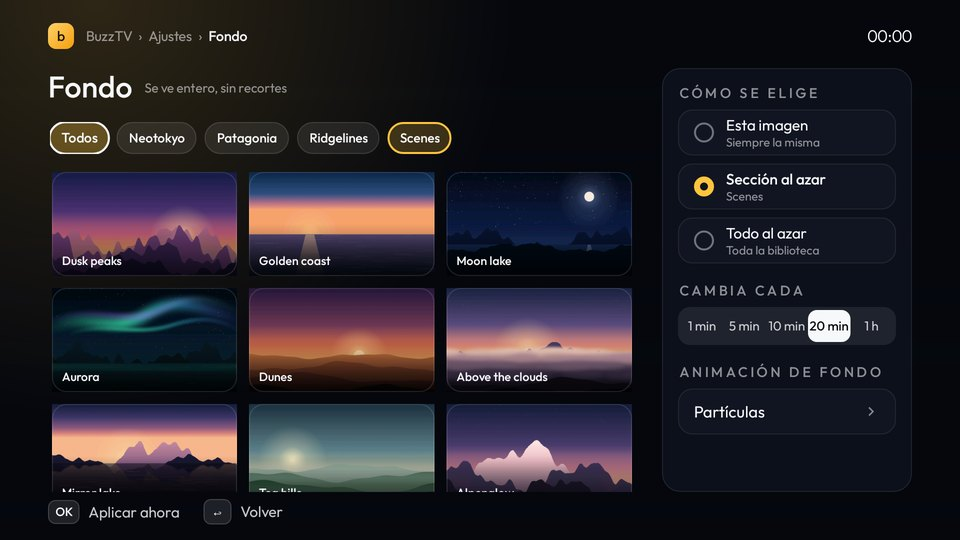
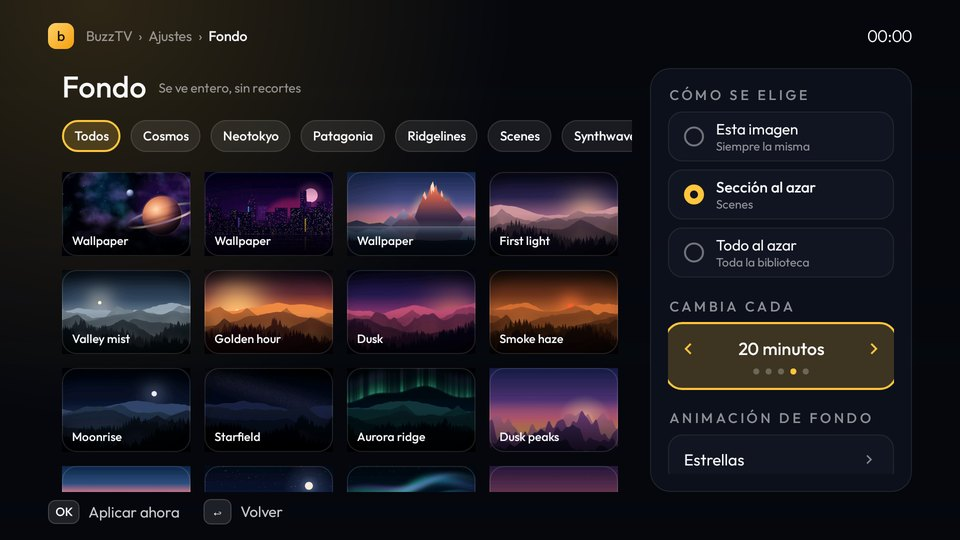
Launcher: focus rings never cut, a Background gallery that shows everything
A view that grows on focus now unclips its containers up to the nearest scrolling one, which keeps its own
content inside its bounds: no cut ring on buttons, cards or pictures, and the section chips no longer paint over
the side panel. In Background, All shows every picture of the library as a four-column mosaic (it used to fall
back to the saved section), a section's single wallpaper is named after the section, and "Changes every" is a
Left/Right stepper shown only when the background rotates.

Claude-Session: https://claude.ai/code/session_01PXT7BGs47fZPraac96cjBc

diff --git a/launcher/app/src/main/java/com/gathin/tvhome/LauncherSettingsActivity.java b/launcher/app/src/main/java/com/gathin/tvhome/LauncherSettingsActivity.java
@@ -263,7 +263,7 @@ public final class LauncherSettingsActivity extends Activity {
         View design = bigCard(R.drawable.ic_layout, 0xFFFFD36B, 0xFFF59E0B, R.string.settings_design,
                 getString(HomeTheme.labelRes(theme)), getString(R.string.settings_design_hint, HomeTheme.ALL.length), this::showDesign);
         View background = bigCard(R.drawable.ic_image, 0xFF34D3C2, 0xFF0E8F86, R.string.settings_background,
-                BackgroundPicker.state(this, choices), null, this::showBackground);
+                BackgroundPicker.state(this, choices), null, this::openBackground);
         View animation = bigCard(R.drawable.ic_sparkle, 0xFFA78BFA, 0xFF6D28D9, R.string.wallpaper_animation_label,
                 animationLabel(config.wallpaperAnimation), null, this::showAnimation);
         View weatherCard = bigCard(R.drawable.ic_cloud, 0xFF7CC4FF, 0xFF2563EB, R.string.settings_weather,
@@ -657,31 +657,43 @@ public final class LauncherSettingsActivity extends Activity {
     // ---- background -----------------------------------------------------------------------------------
 
     private String gallerySection;   // null = every section
+    private static final int GALLERY_COLUMNS = 4;
+    private static final int GALLERY_MAX = 120;
+
+    /** From the hub: open on the section in use (or every picture when everything rotates). */
+    private void openBackground() {
+        String mode = choices.getString(BackgroundLibrary.MODE_KEY, null);
+        gallerySection = BackgroundLibrary.MODE_ALL.equals(mode) ? null : choices.getString(BackgroundLibrary.SECTION_KEY, null);
+        showBackground(-1);
+    }
 
     private void showBackground() {
+        showBackground(-1);
+    }
+
+    /** @param focusChip the section chip to keep the focus on after a redraw, or -1 for the chosen picture */
+    private void showBackground(int focusChip) {
         back = this::showHub;
         setCrumbs(R.string.settings_title, R.string.settings_background);
-        setKeys(new String[]{"OK", "↩"}, new int[]{R.string.key_apply, R.string.key_back});
+        setKeys(new String[]{"OK", "\u21A9"}, new int[]{R.string.key_apply, R.string.key_back});
         content.removeAllViews();
         File root = Config.dir(this);
         List<String> sections = BackgroundLibrary.sections(root);
         String mode = choices.getString(BackgroundLibrary.MODE_KEY, null);
-        if (gallerySection == null && !BackgroundLibrary.MODE_ALL.equals(mode)) {
-            gallerySection = choices.getString(BackgroundLibrary.SECTION_KEY, null);
-        }
 
         LinearLayout across = new LinearLayout(this);
         across.setOrientation(LinearLayout.HORIZONTAL);
-        across.setClipChildren(false);
         content.addView(across, match());
 
+        // The left column clips: the chip row and the gallery scroll inside it and never paint over the panel.
         LinearLayout left = new LinearLayout(this);
         left.setOrientation(LinearLayout.VERTICAL);
-        left.setClipChildren(false);
+        left.setClipChildren(true);
         across.addView(left, new LinearLayout.LayoutParams(0, ViewGroup.LayoutParams.MATCH_PARENT, 1f));
         LinearLayout head = new LinearLayout(this);
         head.setOrientation(LinearLayout.HORIZONTAL);
         head.setGravity(Gravity.BOTTOM);
+        head.setPadding(dp(14), 0, dp(14), 0);
         left.addView(head);
         TextView title = Buzz.text(this, 30, Buzz.TEXT, R.string.font_medium);
         title.setText(R.string.settings_background);
@@ -697,61 +709,66 @@ public final class LauncherSettingsActivity extends Activity {
             TextView empty = Buzz.text(this, 15, Buzz.TEXT_2, R.string.font_regular);
             empty.setSingleLine(false);
             empty.setText(R.string.background_empty);
+            empty.setPadding(dp(14), 0, dp(14), 0);
             LinearLayout.LayoutParams el = wrap();
             el.topMargin = dp(24);
             left.addView(empty, el);
         } else {
             HorizontalScrollView chipScroll = new HorizontalScrollView(this);
             chipScroll.setHorizontalScrollBarEnabled(false);
-            chipScroll.setClipToPadding(false);
+            chipScroll.setOverScrollMode(View.OVER_SCROLL_NEVER);
             LinearLayout chips = new LinearLayout(this);
             chips.setOrientation(LinearLayout.HORIZONTAL);
-            chips.setPadding(dp(2), dp(4), dp(2), dp(4));
+            chips.setClipChildren(false);
+            // Room on every side for a chip that grows on focus.
+            chips.setPadding(dp(14), dp(10), dp(14), dp(10));
             chipScroll.addView(chips);
             LinearLayout.LayoutParams csl = new LinearLayout.LayoutParams(ViewGroup.LayoutParams.MATCH_PARENT, ViewGroup.LayoutParams.WRAP_CONTENT);
-            csl.topMargin = dp(12);
+            csl.topMargin = dp(4);
             left.addView(chipScroll, csl);
             List<String> chipIds = new ArrayList<>();
             chipIds.add(null);
             chipIds.addAll(sections);
-            for (String s : chipIds) {
-                TextView c = textChoice(s == null ? getString(R.string.background_all) : ThemeLibrary.label(s));
-                ((LinearLayout.LayoutParams) c.getLayoutParams()).setMarginEnd(dp(8));
-                c.setSelected(s == null ? gallerySection == null : s.equals(gallerySection));
+            View keep = null;
+            for (int i = 0; i < chipIds.size(); i++) {
+                String sec = chipIds.get(i);
+                final int index = i;
+                TextView c = textChoice(sec == null ? getString(R.string.background_all) : ThemeLibrary.label(sec));
+                ((LinearLayout.LayoutParams) c.getLayoutParams()).setMarginEnd(dp(10));
+                c.setSelected(sec == null ? gallerySection == null : sec.equals(gallerySection));
                 c.setOnClickListener(v -> {
-                    gallerySection = s;
-                    showBackground();
+                    gallerySection = sec;
+                    showBackground(index);
                 });
                 chips.addView(c);
+                if (i == focusChip) keep = c;
             }
 
             ScrollView scroll = new ScrollView(this);
             scroll.setVerticalScrollBarEnabled(false);
-            scroll.setClipToPadding(false);
+            scroll.setOverScrollMode(View.OVER_SCROLL_NEVER);
             LinearLayout rows = new LinearLayout(this);
             rows.setOrientation(LinearLayout.VERTICAL);
             rows.setClipChildren(false);
-            rows.setPadding(dp(4), dp(8), dp(4), dp(8));
+            rows.setPadding(dp(14), dp(10), dp(14), dp(14));
             scroll.addView(rows);
-            LinearLayout.LayoutParams sl = new LinearLayout.LayoutParams(ViewGroup.LayoutParams.MATCH_PARENT, 0, 1f);
-            sl.topMargin = dp(6);
-            left.addView(scroll, sl);
+            left.addView(scroll, new LinearLayout.LayoutParams(ViewGroup.LayoutParams.MATCH_PARENT, 0, 1f));
             List<File> pics = new ArrayList<>();
-            if (gallerySection == null) for (String s : sections) pics.addAll(BackgroundLibrary.images(root, s));
+            if (gallerySection == null) for (String sec : sections) pics.addAll(BackgroundLibrary.images(root, sec));
             else pics.addAll(BackgroundLibrary.images(root, gallerySection));
-            if (pics.size() > 60) pics = pics.subList(0, 60);
+            if (pics.size() > GALLERY_MAX) pics = pics.subList(0, GALLERY_MAX);
             String picked = BackgroundLibrary.MODE_IMAGE.equals(mode) ? choices.getString(BackgroundLibrary.IMAGE_KEY, null) : null;
             String pickedSection = choices.getString(BackgroundLibrary.SECTION_KEY, null);
             LinearLayout line = null;
             List<View> cells = new ArrayList<>();
             View first = null;
             for (int i = 0; i < pics.size(); i++) {
-                if (i % 3 == 0) {
+                if (i % GALLERY_COLUMNS == 0) {
                     line = new LinearLayout(this);
                     line.setOrientation(LinearLayout.HORIZONTAL);
                     line.setClipChildren(false);
-                    LinearLayout.LayoutParams ll = new LinearLayout.LayoutParams(ViewGroup.LayoutParams.MATCH_PARENT, dp(104));
-                    ll.bottomMargin = dp(12);
+                    LinearLayout.LayoutParams ll = new LinearLayout.LayoutParams(ViewGroup.LayoutParams.MATCH_PARENT, dp(84));
+                    ll.bottomMargin = dp(14);
                     rows.addView(line, ll);
                 }
                 File f = pics.get(i);
@@ -760,27 +777,28 @@ public final class LauncherSettingsActivity extends Activity {
                 View cell = picture(f, section, selected, cells);
                 cells.add(cell);
                 LinearLayout.LayoutParams cl = new LinearLayout.LayoutParams(0, ViewGroup.LayoutParams.MATCH_PARENT, 1f);
-                cl.setMarginEnd(i % 3 == 2 ? 0 : dp(12));
+                cl.setMarginEnd(i % GALLERY_COLUMNS == GALLERY_COLUMNS - 1 ? 0 : dp(14));
                 line.addView(cell, cl);
                 if (first == null || selected) first = cell;
             }
             if (line != null) {
-                for (int i = pics.size(); i % 3 != 0; i++) {
+                for (int i = pics.size(); i % GALLERY_COLUMNS != 0; i++) {
                     LinearLayout.LayoutParams cl = new LinearLayout.LayoutParams(0, ViewGroup.LayoutParams.MATCH_PARENT, 1f);
-                    cl.setMarginEnd(i % 3 == 2 ? 0 : dp(12));
+                    cl.setMarginEnd(i % GALLERY_COLUMNS == GALLERY_COLUMNS - 1 ? 0 : dp(14));
                     line.addView(Buzz.spacer(this), cl);
                 }
             }
-            if (first != null) first.requestFocus();
+            View target = keep != null ? keep : first;
+            if (target != null) target.requestFocus();
         }
 
-        // Right: how the picture is chosen, how often it changes, the animation.
+        // Right: how the picture is chosen, how often it changes (only when it does), the animation.
         LinearLayout aside = new LinearLayout(this);
         aside.setOrientation(LinearLayout.VERTICAL);
-        aside.setPadding(dp(16), dp(16), dp(16), dp(16));
-        aside.setBackground(Buzz.round(0xB8101420, dp(18), Math.max(1, dp(1)), 0x1AFFFFFF));
-        LinearLayout.LayoutParams asl = new LinearLayout.LayoutParams(dp(250), ViewGroup.LayoutParams.MATCH_PARENT);
-        asl.setMarginStart(dp(26));
+        aside.setPadding(dp(18), dp(18), dp(18), dp(18));
+        aside.setBackground(Buzz.round(0xB8101420, dp(20), Math.max(1, dp(1)), 0x1AFFFFFF));
+        LinearLayout.LayoutParams asl = new LinearLayout.LayoutParams(dp(262), ViewGroup.LayoutParams.MATCH_PARENT);
+        asl.setMarginStart(dp(18));
         across.addView(aside, asl);
         aside.addView(Buzz.kicker(this, R.string.background_how, Buzz.TEXT_3));
         String current = gallerySection != null ? gallerySection : choices.getString(BackgroundLibrary.SECTION_KEY, null);
@@ -789,6 +807,7 @@ public final class LauncherSettingsActivity extends Activity {
                 {BackgroundLibrary.MODE_SECTION, getString(R.string.background_mode_section),
                         current == null ? getString(R.string.background_mode_section_sub) : ThemeLibrary.label(current)},
                 {BackgroundLibrary.MODE_ALL, getString(R.string.background_mode_all), getString(R.string.background_mode_all_sub)}};
+        View firstMode = null;
         for (String[] m : modes) {
             View r = radio(m[1], m[2], m[0].equals(mode), () -> {
                 if (BackgroundLibrary.MODE_ALL.equals(m[0])) saveBackground(BackgroundLibrary.MODE_ALL, null, null);
@@ -799,32 +818,116 @@ public final class LauncherSettingsActivity extends Activity {
                 } else return;
                 showBackground();
             });
-            LinearLayout.LayoutParams rl = new LinearLayout.LayoutParams(ViewGroup.LayoutParams.MATCH_PARENT, dp(46));
+            LinearLayout.LayoutParams rl = new LinearLayout.LayoutParams(ViewGroup.LayoutParams.MATCH_PARENT, dp(48));
             rl.topMargin = dp(8);
             aside.addView(r, rl);
+            if (firstMode == null) firstMode = r;
         }
-        LinearLayout.LayoutParams k2 = wrap();
-        k2.topMargin = dp(18);
-        aside.addView(Buzz.kicker(this, R.string.background_every, Buzz.TEXT_3), k2);
-        int rot = choices.getInt(Config.WALLPAPER_ROTATION_KEY, BackgroundLibrary.DEFAULT_ROTATION_MINUTES);
-        String[] rotLabels = {getString(R.string.rotation_1m), getString(R.string.rotation_5m), getString(R.string.rotation_10m),
-                getString(R.string.rotation_20m), getString(R.string.rotation_60m)};
-        int rotIdx = 3;
-        for (int i = 0; i < Config.WALLPAPER_ROTATION_CHOICES.length; i++) if (Config.WALLPAPER_ROTATION_CHOICES[i] == rot) rotIdx = i;
-        View seg = segmented(rotLabels, rotIdx, i -> {
-            choices.edit().putInt(Config.WALLPAPER_ROTATION_KEY, Config.WALLPAPER_ROTATION_CHOICES[i]).apply();
-            changed();
-        });
-        ((LinearLayout.LayoutParams) seg.getLayoutParams()).topMargin = dp(8);
-        aside.addView(seg);
+        // A fixed picture never changes: no interval to choose.
+        boolean rotates = BackgroundLibrary.MODE_SECTION.equals(mode) || BackgroundLibrary.MODE_ALL.equals(mode);
+        if (rotates) {
+            LinearLayout.LayoutParams k2 = wrap();
+            k2.topMargin = dp(16);
+            aside.addView(Buzz.kicker(this, R.string.background_every, Buzz.TEXT_3), k2);
+            int rot = choices.getInt(Config.WALLPAPER_ROTATION_KEY, BackgroundLibrary.DEFAULT_ROTATION_MINUTES);
+            int rotIdx = 3;
+            for (int i = 0; i < Config.WALLPAPER_ROTATION_CHOICES.length; i++) if (Config.WALLPAPER_ROTATION_CHOICES[i] == rot) rotIdx = i;
+            String[] rotLabels = {getString(R.string.every_1m), getString(R.string.every_5m), getString(R.string.every_10m),
+                    getString(R.string.every_20m), getString(R.string.every_60m)};
+            View stepper = stepper(rotLabels, rotIdx, i -> {
+                choices.edit().putInt(Config.WALLPAPER_ROTATION_KEY, Config.WALLPAPER_ROTATION_CHOICES[i]).apply();
+                changed();
+            });
+            LinearLayout.LayoutParams stl = new LinearLayout.LayoutParams(ViewGroup.LayoutParams.MATCH_PARENT, dp(60));
+            stl.topMargin = dp(8);
+            aside.addView(stepper, stl);
+        }
         LinearLayout.LayoutParams k3 = wrap();
-        k3.topMargin = dp(18);
+        k3.topMargin = dp(16);
         aside.addView(Buzz.kicker(this, R.string.wallpaper_animation_label, Buzz.TEXT_3), k3);
         View anim = actionRow(animationLabel(config.wallpaperAnimation), "", this::showAnimation);
-        LinearLayout.LayoutParams anl = new LinearLayout.LayoutParams(ViewGroup.LayoutParams.MATCH_PARENT, dp(46));
+        LinearLayout.LayoutParams anl = new LinearLayout.LayoutParams(ViewGroup.LayoutParams.MATCH_PARENT, dp(48));
         anl.topMargin = dp(8);
         aside.addView(anim, anl);
-        if (sections.isEmpty()) aside.getChildAt(1).requestFocus();
+        if (sections.isEmpty() && firstMode != null) firstMode.requestFocus();
+    }
+
+    /**
+     * One value at a time, changed with Left and Right: "◀  20 minutes  ▶" with a dot per choice under it. Takes
+     * a narrow column far better than five chips side by side.
+     */
+    private View stepper(String[] values, int selected, java.util.function.IntConsumer pick) {
+        LinearLayout box = new LinearLayout(this);
+        box.setOrientation(LinearLayout.VERTICAL);
+        box.setGravity(Gravity.CENTER);
+        box.setFocusable(true);
+        box.setClickable(true);
+        float r = dp(16);
+        box.setBackground(Buzz.states(Buzz.round(0x8C141824, r, Math.max(1, dp(1)), 0x1AFFFFFF),
+                Buzz.round(0x33FFC53D, r, dp(2), Buzz.HONEY)));
+        LinearLayout line = new LinearLayout(this);
+        line.setOrientation(LinearLayout.HORIZONTAL);
+        line.setGravity(Gravity.CENTER_VERTICAL);
+        box.addView(line, new LinearLayout.LayoutParams(ViewGroup.LayoutParams.MATCH_PARENT, ViewGroup.LayoutParams.WRAP_CONTENT));
+        ImageView prev = new ImageView(this);
+        prev.setImageResource(R.drawable.ic_chevron);
+        prev.setRotation(180f);
+        line.addView(prev, new LinearLayout.LayoutParams(dp(22), dp(22)));
+        TextView value = Buzz.text(this, 17, Buzz.TEXT, R.string.font_medium);
+        value.setGravity(Gravity.CENTER);
+        line.addView(value, new LinearLayout.LayoutParams(0, ViewGroup.LayoutParams.WRAP_CONTENT, 1f));
+        ImageView nextIcon = new ImageView(this);
+        nextIcon.setImageResource(R.drawable.ic_chevron);
+        line.addView(nextIcon, new LinearLayout.LayoutParams(dp(22), dp(22)));
+        LinearLayout dots = new LinearLayout(this);
+        dots.setOrientation(LinearLayout.HORIZONTAL);
+        dots.setGravity(Gravity.CENTER);
+        LinearLayout.LayoutParams dl = wrap();
+        dl.topMargin = dp(8);
+        box.addView(dots, dl);
+        List<View> dotViews = new ArrayList<>();
+        for (int i = 0; i < values.length; i++) {
+            View d = new View(this);
+            LinearLayout.LayoutParams lp = new LinearLayout.LayoutParams(dp(6), dp(6));
+            lp.setMargins(dp(3), 0, dp(3), 0);
+            dots.addView(d, lp);
+            dotViews.add(d);
+        }
+        box.setPadding(dp(12), dp(10), dp(12), dp(10));
+        int[] at = {selected};
+        Runnable paint = () -> {
+            value.setText(values[at[0]]);
+            prev.setAlpha(at[0] == 0 ? 0.25f : 1f);
+            nextIcon.setAlpha(at[0] == values.length - 1 ? 0.25f : 1f);
+            for (int i = 0; i < dotViews.size(); i++) {
+                boolean on = i == at[0];
+                dotViews.get(i).setBackground(Buzz.round(on ? Buzz.HONEY : 0x40FFFFFF, dp(3), 0, 0));
+            }
+            box.setContentDescription(getString(R.string.background_every) + ": " + values[at[0]]);
+        };
+        paint.run();
+        box.setOnKeyListener((v, code, e) -> {
+            if (code != android.view.KeyEvent.KEYCODE_DPAD_LEFT && code != android.view.KeyEvent.KEYCODE_DPAD_RIGHT) return false;
+            int next = at[0] + (code == android.view.KeyEvent.KEYCODE_DPAD_RIGHT ? 1 : -1);
+            // Past either end the key moves the focus out as usual.
+            if (next < 0 || next >= values.length) return false;
+            if (e.getAction() != android.view.KeyEvent.ACTION_DOWN) return true;
+            at[0] = next;
+            paint.run();
+            pick.accept(next);
+            return true;
+        });
+        box.setOnClickListener(v -> {
+            at[0] = (at[0] + 1) % values.length;
+            paint.run();
+            pick.accept(at[0]);
+        });
+        Buzz.lift(box, 1.03f, (v, f) -> {
+            int tint = f ? Buzz.HONEY : Buzz.TEXT;
+            prev.setColorFilter(tint);
+            nextIcon.setColorFilter(tint);
+        });
+        return box;
     }
 
     private static String sectionOf(File f) {
@@ -880,6 +983,8 @@ public final class LauncherSettingsActivity extends Activity {
 
     /** The picture's caption when its folder has captions.txt, else its file name without the leading number. */
     private String pictureName(File f) {
+        // A section's single wallpaper.jpg is named after its section ("Synthwave"), not "Wallpaper".
+        if (Config.WALLPAPER_NAME.equals(f.getName())) return ThemeLibrary.label(sectionOf(f));
         File dir = f.getParentFile();
         Map<String, String> names = captions.get(String.valueOf(dir));
         if (names == null) {
@@ -900,7 +1005,7 @@ public final class LauncherSettingsActivity extends Activity {
             return;
         }
         io.execute(() -> {
-            Bitmap b = decode(f, 360);
+            Bitmap b = decode(f, 280);
             if (b == null) return;
             main.post(() -> {
                 thumbs.put(f.getPath(), b);

diff --git a/launcher/app/src/main/java/com/gathin/tvhome/Buzz.java b/launcher/app/src/main/java/com/gathin/tvhome/Buzz.java
@@ -119,11 +119,32 @@ final class Buzz {
     /** Scales a view up on focus and back down, raising it above its neighbours. */
     static void lift(View v, float scale, View.OnFocusChangeListener also) {
         v.setOnFocusChangeListener((view, focused) -> {
+            if (focused) unclip(view);
             float s = focused ? scale : 1f;
             view.animate().scaleX(s).scaleY(s).setDuration(FOCUS_MS).start();
             view.setTranslationZ(focused ? dp(view.getContext(), 8) : 0f);
             if (also != null) also.onFocusChange(view, focused);
         });
+    }
+
+    /**
+     * Lets a view that grows on focus draw past its parents' edges, so its ring is never cut. Every container up
+     * to the nearest scrolling one stops clipping; the scrolling one keeps its content inside its own bounds
+     * (its parent clips it), so scrolled-away rows never paint over the rest of the screen. A scroll's content
+     * carries padding for the growth.
+     */
+    static void unclip(View v) {
+        android.view.ViewParent p = v.getParent();
+        while (p instanceof ViewGroup) {
+            ViewGroup g = (ViewGroup) p;
+            g.setClipChildren(false);
+            if (g instanceof android.widget.ScrollView || g instanceof android.widget.HorizontalScrollView) {
+                g.setClipToPadding(false);
+                if (g.getParent() instanceof ViewGroup) ((ViewGroup) g.getParent()).setClipChildren(true);
+                return;
+            }
+            p = g.getParent();
+        }
     }
 
     /** A round icon button for the top bar (Inputs, Wi-Fi, Apps, Settings). */
